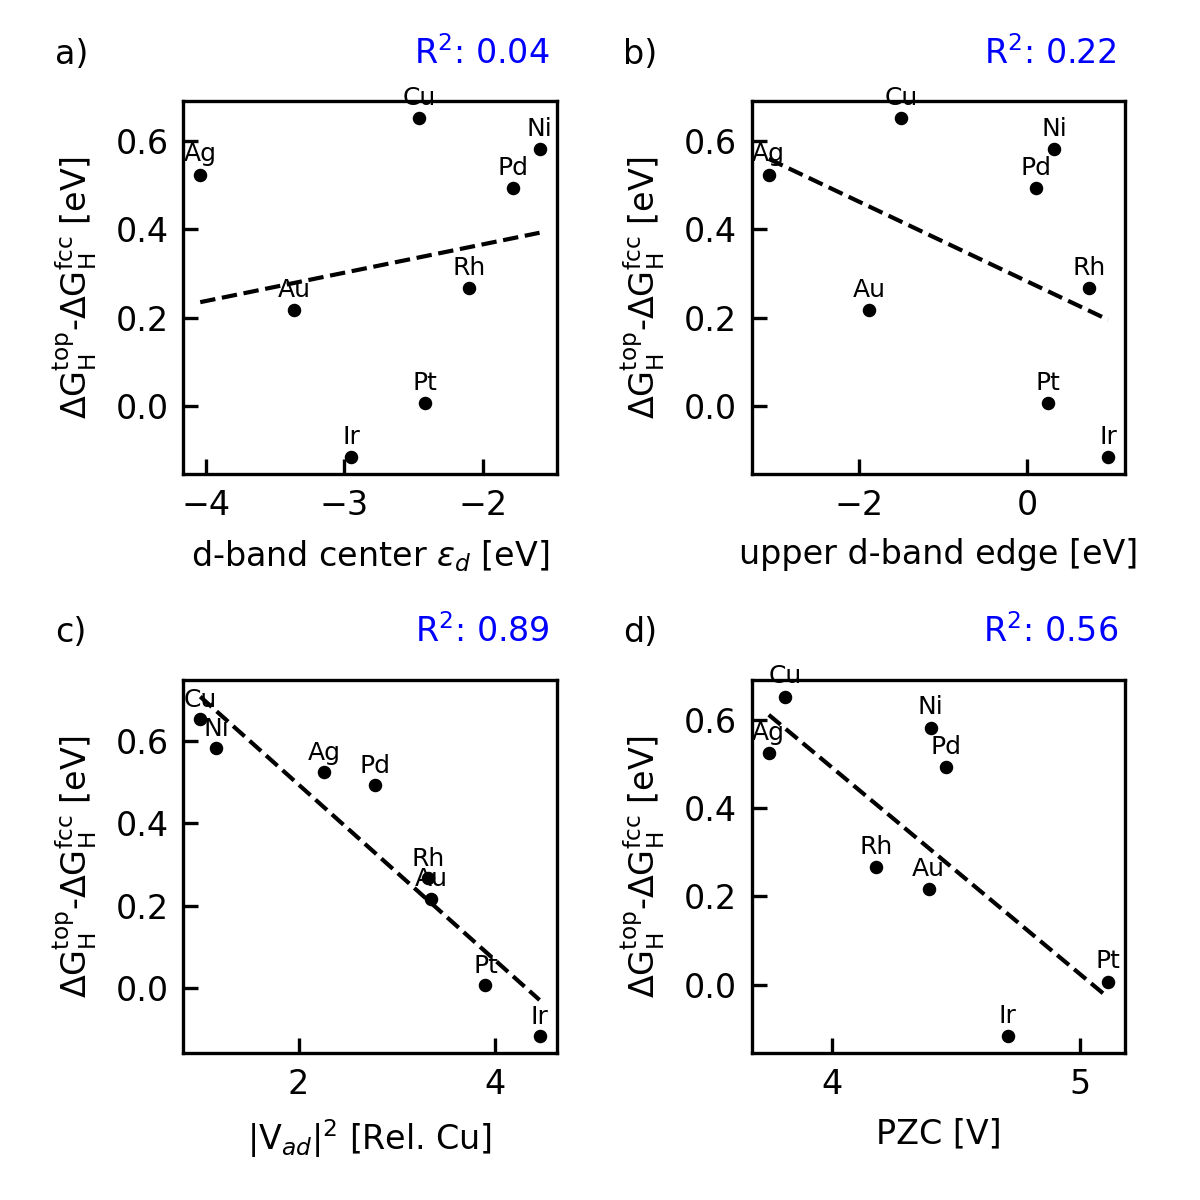
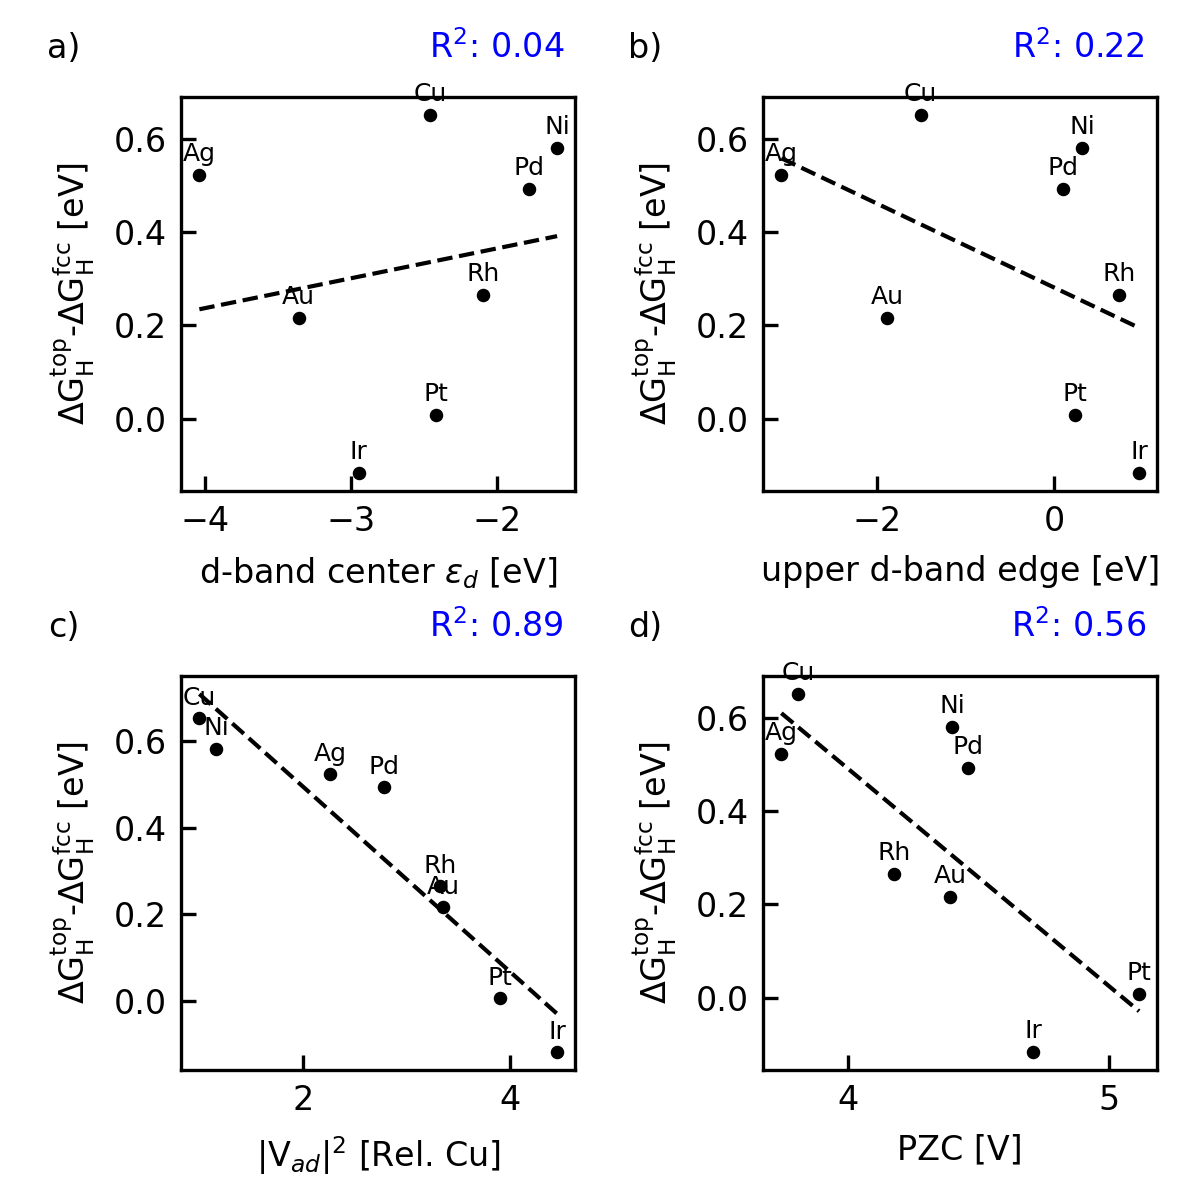
update

diff --git a/Figures_SI/electronic_correlations/plot_descriptor_analysis_array.py b/Figures_SI/electronic_correlations/plot_descriptor_analysis_array.py
@@ -134,9 +134,9 @@ def plot_array(dd,labels,flag):
 
     Nkeys = len(dd.keys())
     
-    for v in [1]: 
+    for v in [1,2]: 
         
-        elif v==1:
+        if v==1:
             #Version 
             Nrows = 2
             Ncols = 2
@@ -151,13 +151,29 @@ def plot_array(dd,labels,flag):
             fsize = 8 #arsize
             rcParams['font.size'] = 8.0                     
             plt.subplots_adjust(hspace=1)
-    
+            use_label=True
+        elif v==2:
+            #Version 
+            Nrows = 1
+            Ncols = 3
+            figsize = (6,2)
+            ykeys = ['hfcc']*3
+            xkeys = ['pzc']*3
+            figname='hfcc_vs_pzc'
+            show_equation=False
+            hidden_axes = [0,2]
+            fs=8
+            arsize=6
+            fsize = 8 #arsize
+            rcParams['font.size'] = 8.0                     
+            plt.subplots_adjust(hspace=1)
+            use_label=False
     
     
         iss = range(Nrows*Ncols)
     
         fig, axs = plt.subplots(nrows=Nrows, ncols=Ncols, figsize=figsize )
-    
+
         for ax, ykey,xkey,icap in zip(axs.flat, ykeys,xkeys,iss):
             print(ax)
             print('ykey {}, xkey {}'.format(ykey,xkey))
@@ -192,7 +208,7 @@ def plot_array(dd,labels,flag):
                 y_pred = LR.predict(sorted_xvals)
                 ax.plot(sorted_xvals,y_pred,lw=1, linestyle='--',color='black',zorder=0 )
                     
-            ax.annotate('{})'.format(string.ascii_lowercase[icap]), xy=capcoord,
+            if use_label: ax.annotate('{})'.format(string.ascii_lowercase[icap]), xy=capcoord,
                                      ha='center', xycoords = ('axes fraction'), 
                                      textcoords=('axes fraction'), color="black",
                                      annotation_clip=False, fontsize=fsize)
